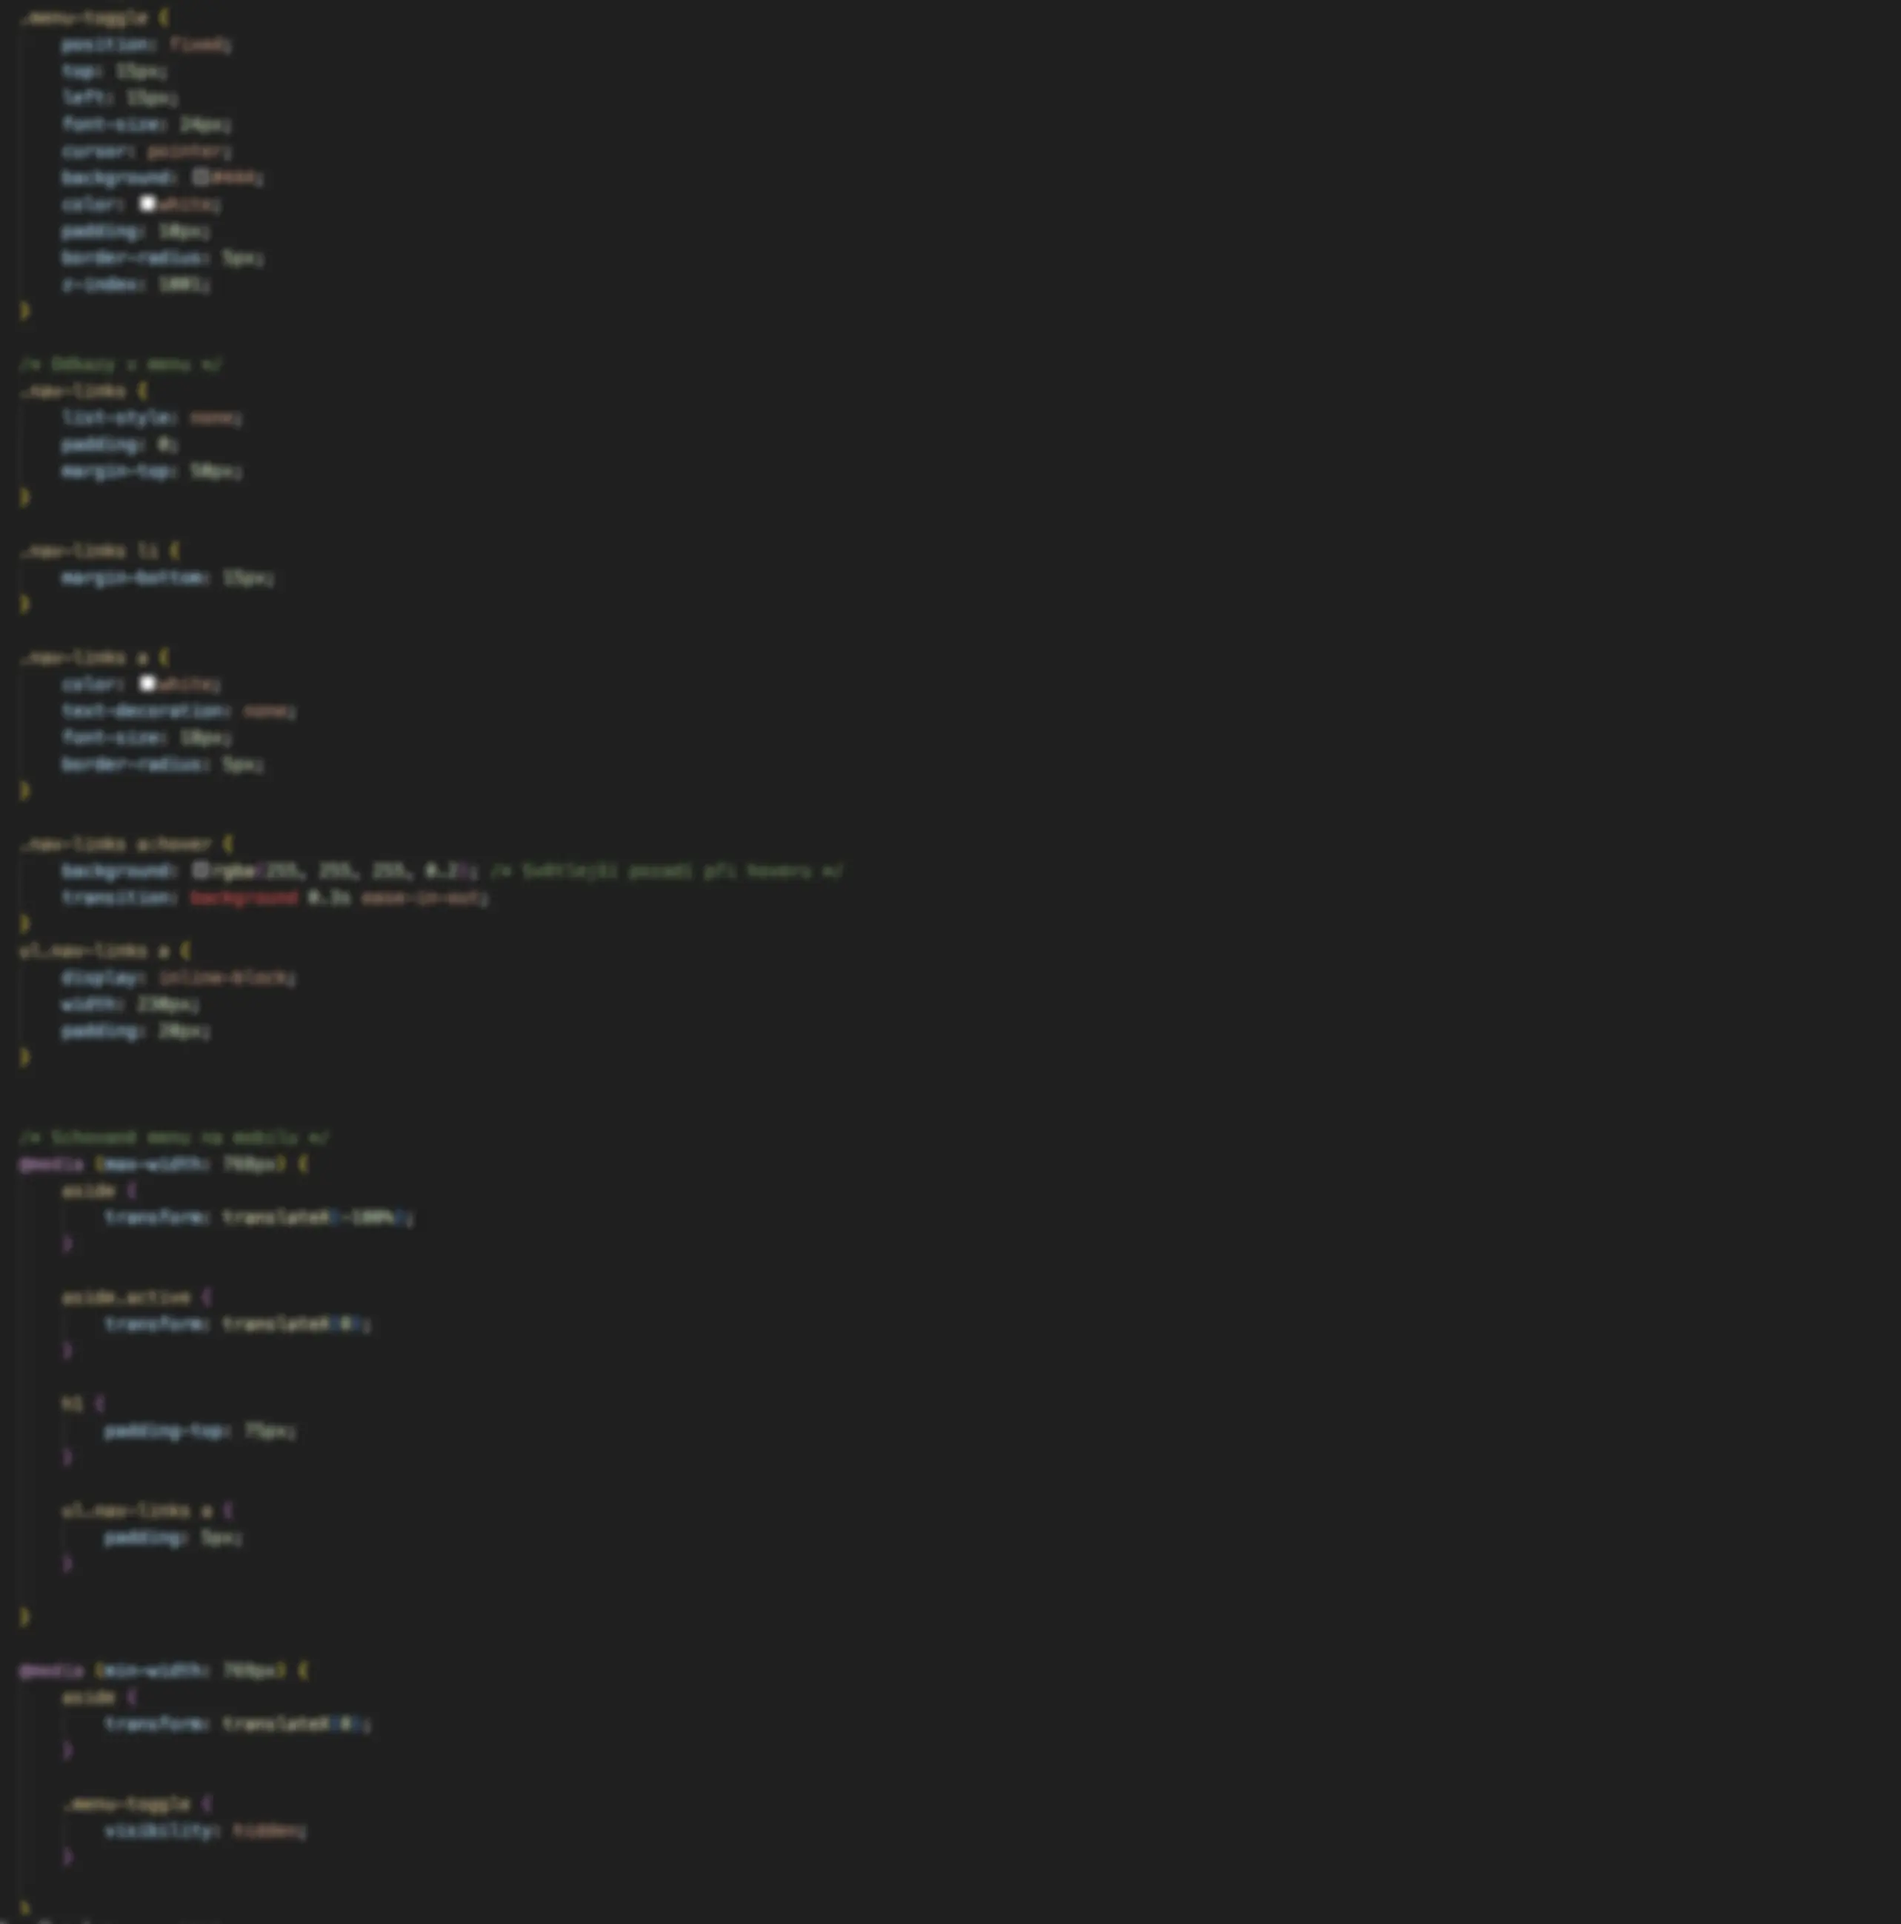
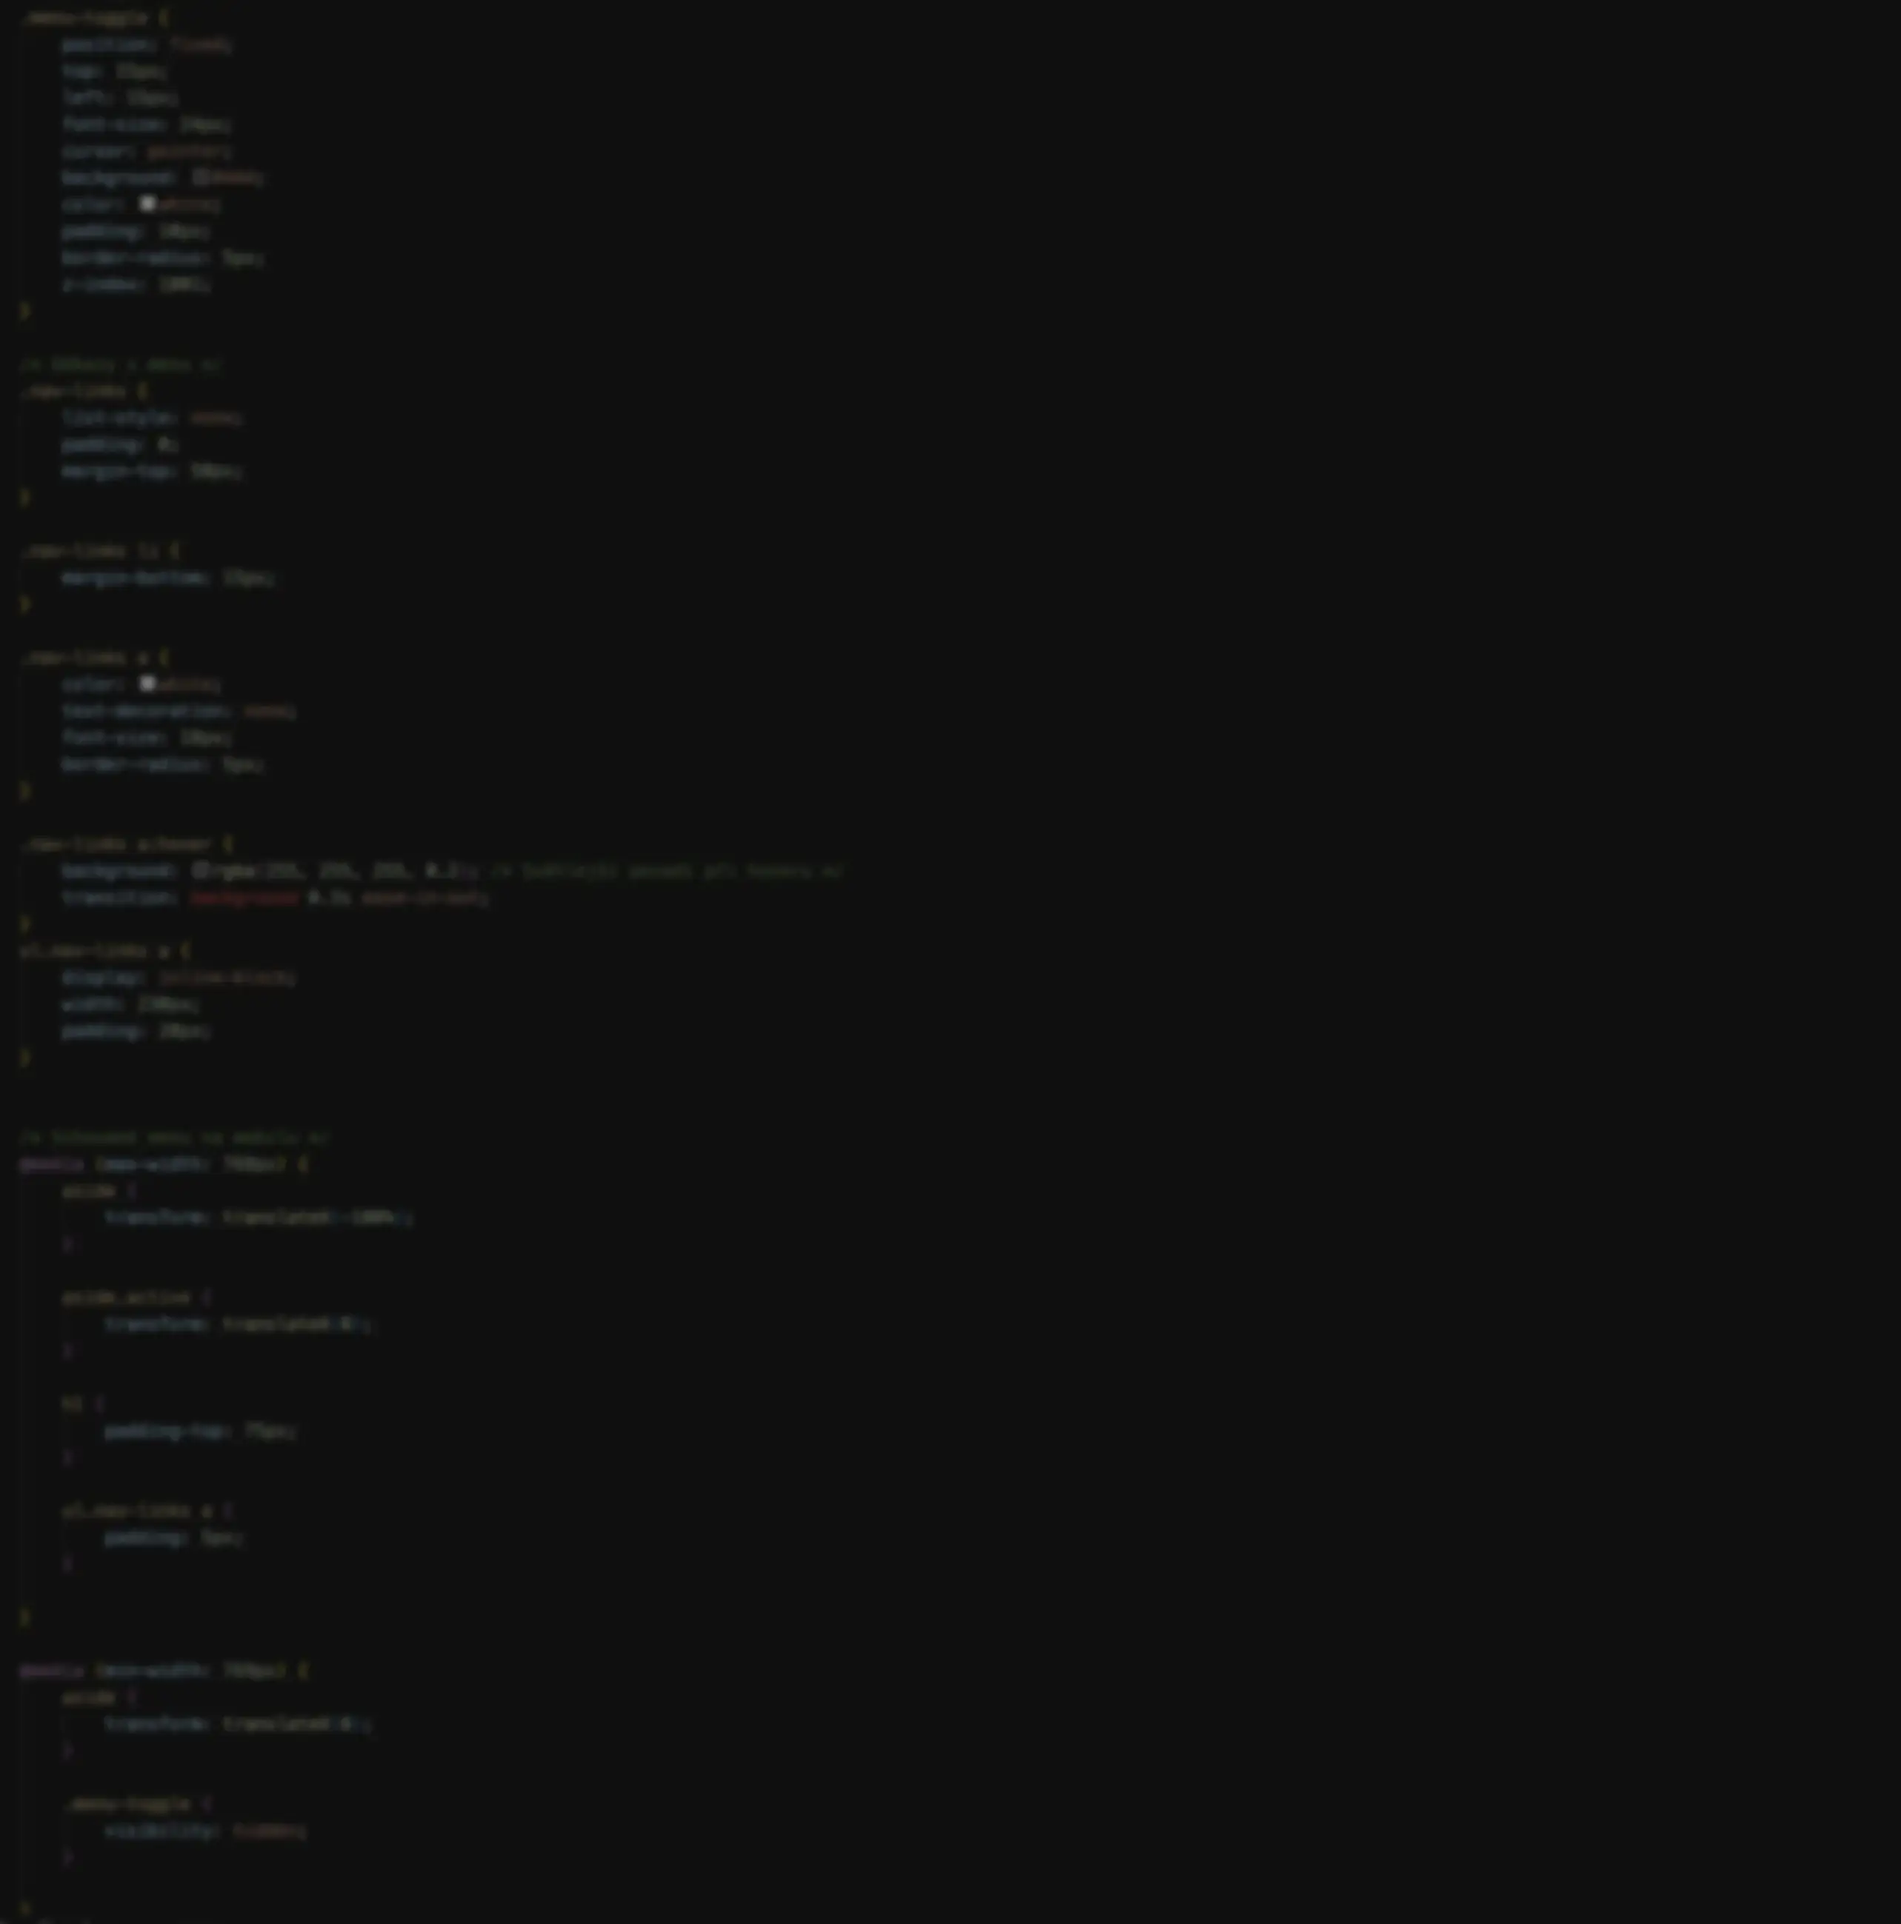
Set background images darkness

diff --git a/css/new_styles.css b/css/new_styles.css
@@ -494,11 +494,11 @@ ul.nav-links a {
 @media (min-width: 2200px) {
     .background-image-left {
         left: 0;
-        background: url("../images/2015mikulas.webp") no-repeat left center;
+        background: url("../images/right.webp") no-repeat left center;
     }
     .background-image-right {
         right: 0;
-        background: url("../images/2015morava2.webp") no-repeat left center;
+        background: url("../images/left.webp") no-repeat left center;
     }
    .background-image-left,.background-image-right {
         position: fixed;
